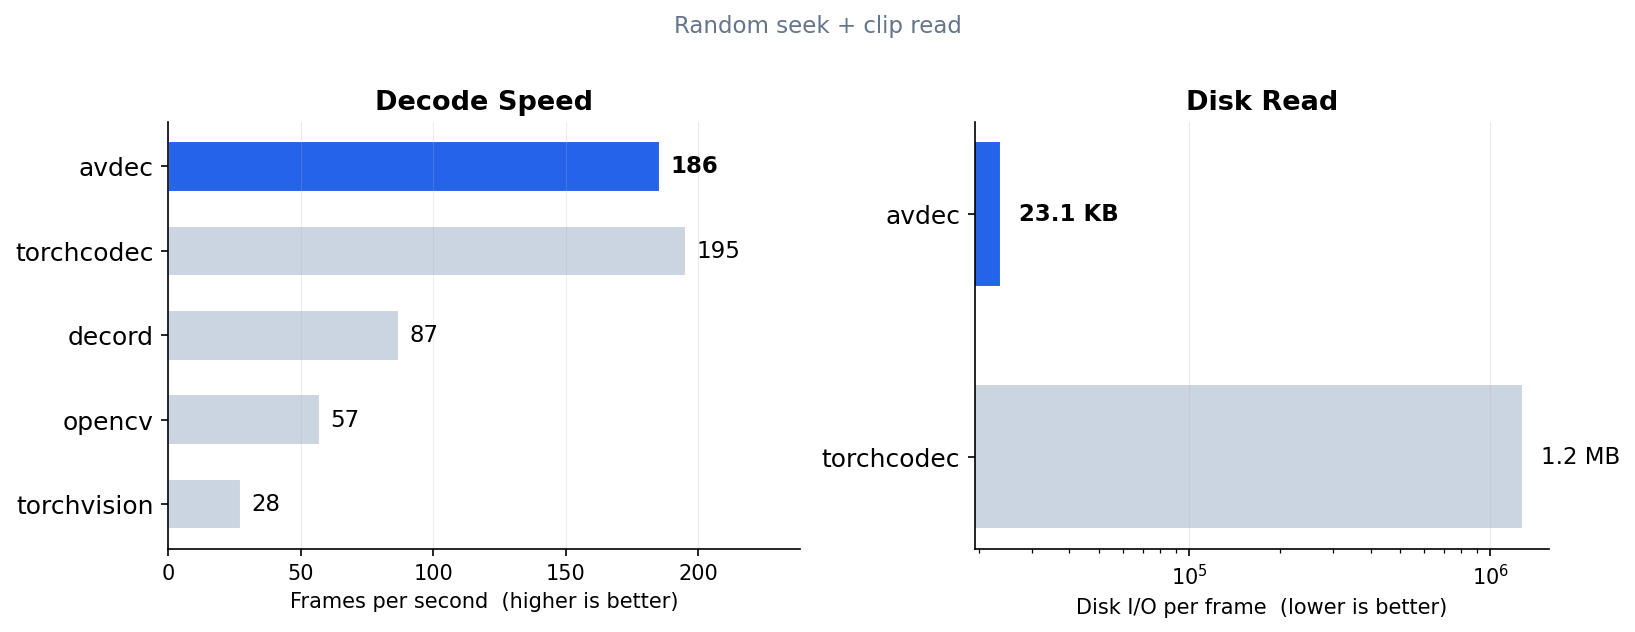
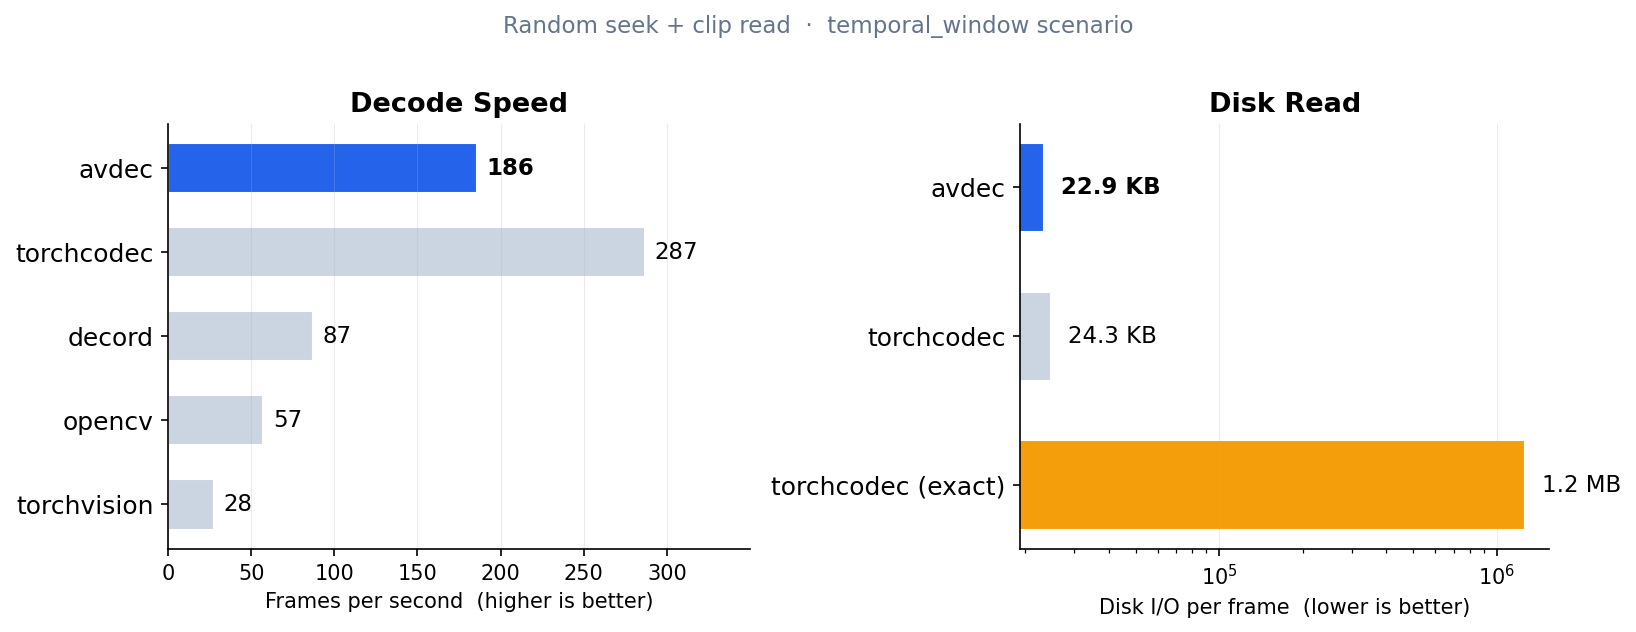
feat: update benchmark results and improve README figure with enhanced decoder mappings

diff --git a/benchmarks/plot_results.py b/benchmarks/plot_results.py
@@ -28,51 +28,64 @@ def _load(path: Path) -> list[dict]:
 
 
 # ── Chart: README figure ────────────────────────────────────────────────────
-# Simple name mapping for README — one entry per library
-_README_NAMES = {
+# Name mapping for the speed panel — one entry per library (best config)
+_SPEED_NAMES = {
     "avdec": "avdec",
-    "torchcodec(seek=exact,thr=1)": "torchcodec",
+    "torchcodec(seek=approximate,thr=1)": "torchcodec",
     "decord": "decord",
     "opencv": "opencv",
     "torchvision-pyav": "torchvision",
 }
 
-# Order: avdec first (hero), then others alphabetically
-_README_ORDER = ["avdec", "torchcodec", "decord", "opencv", "torchvision"]
+# Name mapping for the I/O panel — includes both torchcodec configs
+_IO_NAMES = {
+    "avdec": "avdec",
+    "torchcodec(seek=approximate,thr=1)": "torchcodec",
+    "torchcodec(seek=exact,thr=1)": "torchcodec (exact)",
+    "decord": "decord",
+    "opencv": "opencv",
+    "torchvision-pyav": "torchvision",
+}
+
+# Order: avdec first (hero), then others; exact-seek variant last in I/O
+_SPEED_ORDER = ["avdec", "torchcodec", "decord", "opencv", "torchvision"]
+_IO_ORDER = ["avdec", "torchcodec", "torchcodec (exact)"]
 
 
 def plot_readme(speed_data: list[dict], io_data: list[dict], outdir: Path) -> Path:
     """Two-panel README figure: FPS + Disk I/O per frame (temporal_window).
 
-    *speed_data* provides FPS for all decoders.
-    *io_data* provides bytes_per_frame for decoders that have FUSE data.
+    *speed_data* provides FPS for all decoders (best config per library).
+    *io_data* provides bytes_per_frame — includes both torchcodec configs
+    so readers can see the I/O cliff from exact-seek mode.
     """
     # Build FPS lookup from speed data
     fps_map: dict[str, float] = {}
     for r in speed_data:
-        simple = _README_NAMES.get(r["decoder"])
+        simple = _SPEED_NAMES.get(r["decoder"])
         if simple and r["scenario"] == "temporal_window" and simple not in fps_map:
             fps_map[simple] = r["fps"]
 
-    # Build I/O lookup from io data
+    # Build I/O lookup from io data (uses _IO_NAMES to include both configs)
     bpf_map: dict[str, float] = {}
     for r in io_data:
-        simple = _README_NAMES.get(r["decoder"])
+        simple = _IO_NAMES.get(r["decoder"])
         if simple and r["scenario"] == "temporal_window" and simple not in bpf_map:
             bpf = r.get("bytes_per_frame")
             if bpf and bpf > 0:
                 bpf_map[simple] = bpf
 
-    # FPS panel: all decoders in _README_ORDER
-    fps_labels = [n for n in _README_ORDER if n in fps_map]
+    # FPS panel: all decoders in _SPEED_ORDER
+    fps_labels = [n for n in _SPEED_ORDER if n in fps_map]
     fps_vals = [fps_map[n] for n in fps_labels]
 
-    # I/O panel: only decoders with data, same order
-    io_labels = [n for n in _README_ORDER if n in bpf_map]
+    # I/O panel: decoders with data, in _IO_ORDER
+    io_labels = [n for n in _IO_ORDER if n in bpf_map]
     io_vals = [bpf_map[n] for n in io_labels]
 
     HERO = "#2563eb"
     OTHER = "#cbd5e1"
+    WARN = "#f59e0b"  # amber for the "wrong config" bar
 
     n_fps = len(fps_labels)
     n_io = len(io_labels)
@@ -103,7 +116,14 @@ def plot_readme(speed_data: list[dict], io_data: list[dict], outdir: Path) -> Pa
 
     # ── Panel 2: Bytes/frame ──
     y2 = list(range(n_io))
-    c2 = [HERO if lb == "avdec" else OTHER for lb in io_labels]
+    c2 = []
+    for lb in io_labels:
+        if lb == "avdec":
+            c2.append(HERO)
+        elif "exact" in lb:
+            c2.append(WARN)
+        else:
+            c2.append(OTHER)
     bars2 = ax2.barh(y2, io_vals, color=c2, edgecolor="white", height=0.6)
     for bar, b, lb in zip(bars2, io_vals, io_labels):
         if b >= 1024 * 1024:
@@ -126,7 +146,7 @@ def plot_readme(speed_data: list[dict], io_data: list[dict], outdir: Path) -> Pa
     ax2.spines["top"].set_visible(False)
     ax2.spines["right"].set_visible(False)
 
-    fig.suptitle("Random seek + clip read",
+    fig.suptitle("Random seek + clip read  ·  temporal_window scenario",
                  fontsize=11, color="#64748b", y=1.01)
     fig.tight_layout()
     out = outdir / "readme.png"
